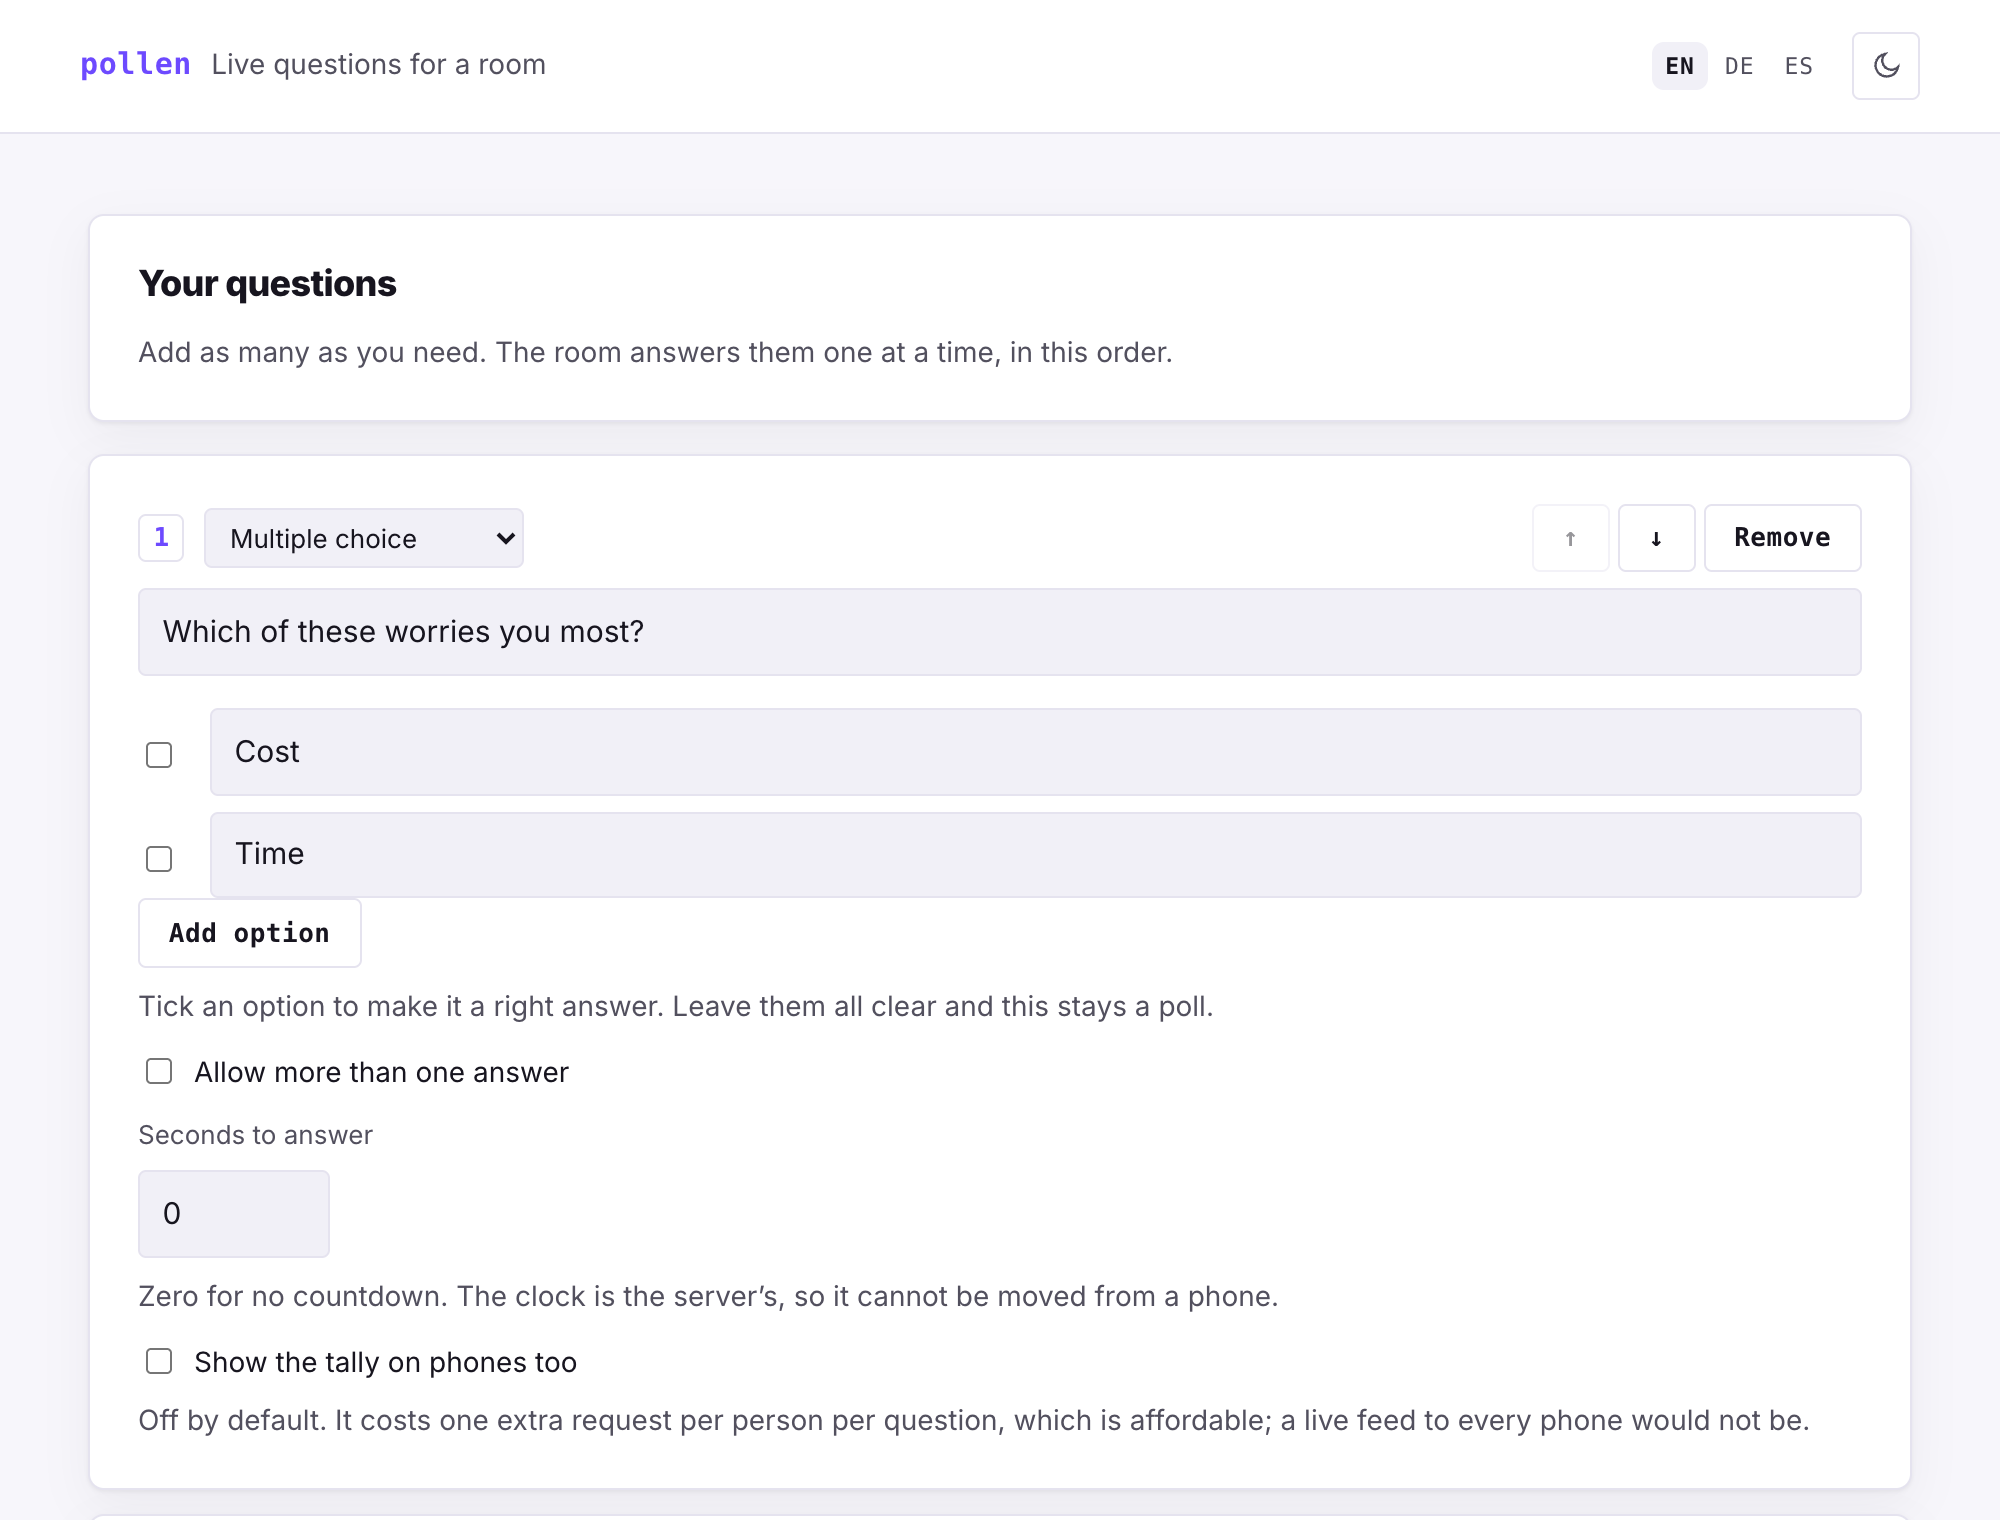
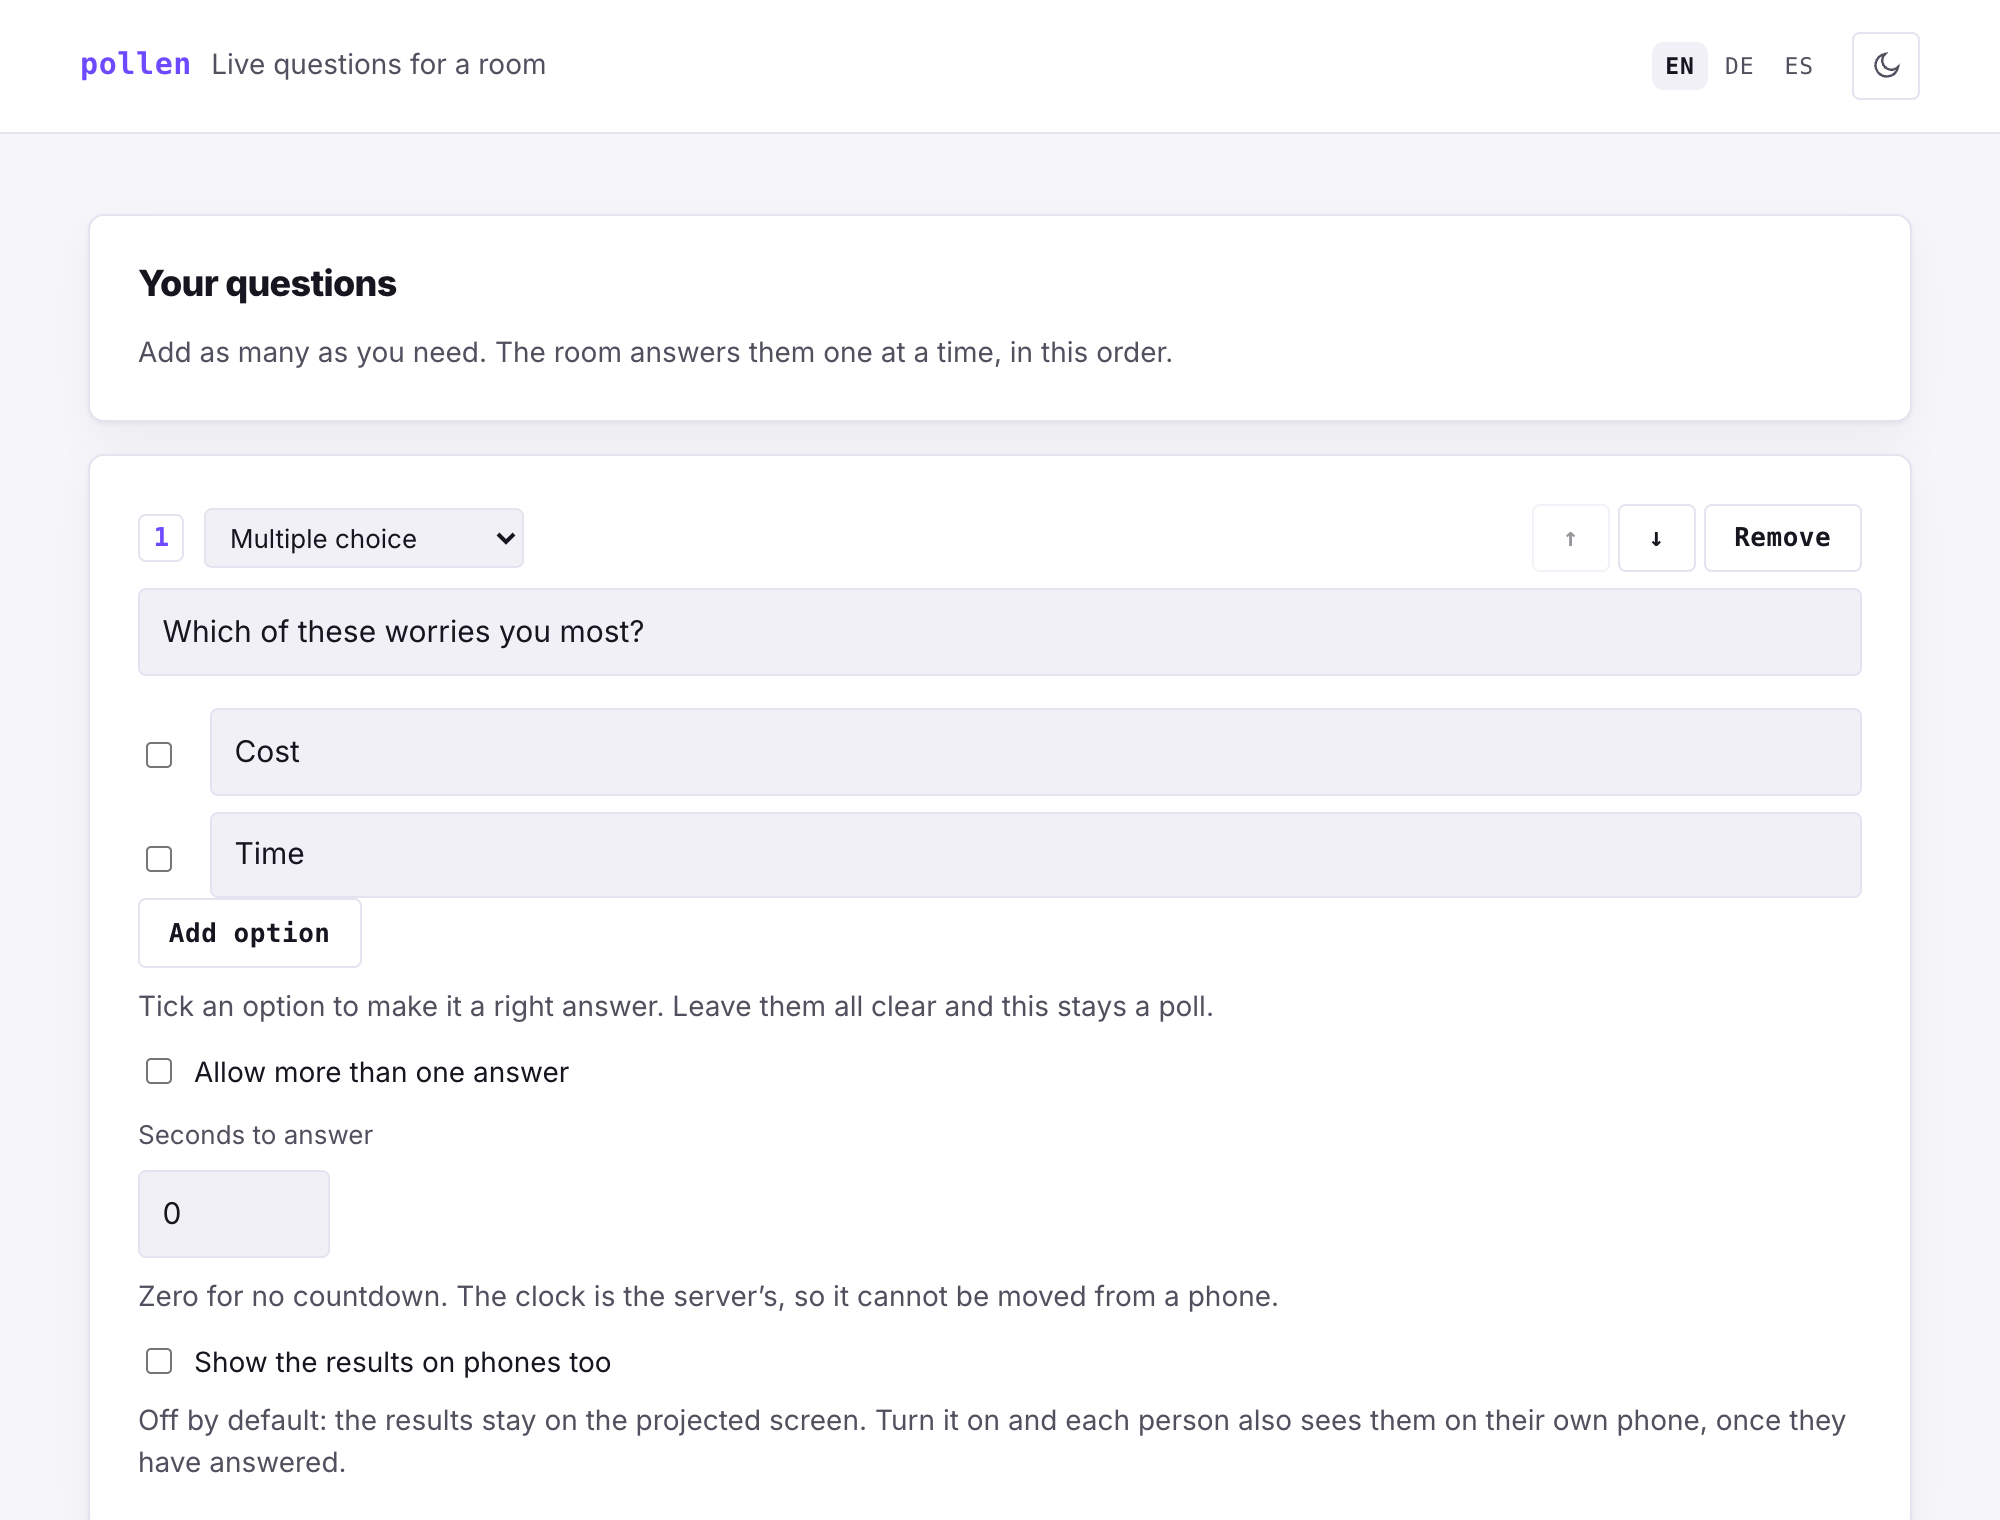
Make one setting say what it does, and finish the storage documentation
"Show the tally on phones too / Off by default. It costs one extra request per
person per question, which is affordable; a live feed to every phone would not
be." That is implementation economics in a control a presenter reads while
building a question, and it explains nothing about what happens in their room.
It now says the results stay on the projected screen unless this is on, and
that each person then sees them on their own phone once they have answered.
"Results" rather than "tally", too. The arithmetic moved to the README, where
it belongs and where it was already half-written.

Also lands the two CLAUDE.md sections the previous commit lost to a bad anchor:
why there is no database and what to say when asked, and a "worth building
next" list with the webhook at the top of it.

Claude-Session: https://claude.ai/code/session_01UERxPD9vFHkP5qsyEWphv5

Changed region(s): [[0.062, 0.9586, 0.93, 1.0], [0.186, 0.8967, 0.93, 0.9586]]

diff --git a/public/js/locales.js b/public/js/locales.js
@@ -38,8 +38,8 @@ export const STRINGS = {
     'editor.addQa': 'Audience questions',
     'editor.addRank': 'Ranking',
     'editor.rankHint': 'The room drags these into an order. You see the average position each one was put in.',
-    'editor.showResults': 'Show the tally on phones too',
-    'editor.showResultsHint': 'Off by default. It costs one extra request per person per question, which is affordable; a live feed to every phone would not be.',
+    'editor.showResults': 'Show the results on phones too',
+    'editor.showResultsHint': 'Off by default: the results stay on the projected screen. Turn it on and each person also sees them on their own phone, once they have answered.',
     'editor.qaHint': 'The room writes the questions and supports each other’s. You answer the ones that rise to the top.',
     'editor.correctHint': 'Tick an option to make it a right answer. Leave them all clear and this stays a poll.',
     'editor.seconds': 'Seconds to answer',
@@ -207,8 +207,8 @@ export const STRINGS = {
     'editor.addQa': 'Publikumsfragen',
     'editor.addRank': 'Reihenfolge',
     'editor.rankHint': 'Der Raum bringt diese in eine Reihenfolge. Sie sehen die durchschnittliche Position jeder Option.',
-    'editor.showResults': 'Auswertung auch auf den Telefonen zeigen',
-    'editor.showResultsHint': 'Standardmäßig aus. Es kostet eine zusätzliche Anfrage pro Person und Frage, was tragbar ist; ein Live-Feed an jedes Telefon wäre es nicht.',
+    'editor.showResults': 'Ergebnisse auch auf den Telefonen zeigen',
+    'editor.showResultsHint': 'Standardmäßig aus: die Ergebnisse bleiben auf der projizierten Ansicht. Eingeschaltet sieht sie jede Person auch auf dem eigenen Telefon, sobald sie geantwortet hat.',
     'editor.qaHint': 'Der Raum schreibt die Fragen und unterstützt die der anderen. Sie beantworten die, die nach oben kommen.',
     'editor.correctHint': 'Eine Option ankreuzen macht sie zur richtigen Antwort. Bleibt alles leer, ist es eine Umfrage.',
     'editor.seconds': 'Sekunden zum Antworten',
@@ -376,8 +376,8 @@ export const STRINGS = {
     'editor.addQa': 'Preguntas del público',
     'editor.addRank': 'Ordenar',
     'editor.rankHint': 'La sala pone esto en orden. Usted ve la posición media en que quedó cada opción.',
-    'editor.showResults': 'Mostrar el recuento también en los móviles',
-    'editor.showResultsHint': 'Desactivado por defecto. Cuesta una petición más por persona y pregunta, que es asumible; un flujo en vivo a cada móvil no lo sería.',
+    'editor.showResults': 'Mostrar los resultados también en los móviles',
+    'editor.showResultsHint': 'Desactivado por defecto: los resultados se quedan en la pantalla proyectada. Si lo activa, cada persona los ve también en su móvil, una vez que ha respondido.',
     'editor.qaHint': 'La sala escribe las preguntas y apoya las de los demás. Usted responde las que suben.',
     'editor.correctHint': 'Marque una opción para convertirla en respuesta correcta. Si no marca ninguna, sigue siendo una votación.',
     'editor.seconds': 'Segundos para responder',

diff --git a/CLAUDE.md b/CLAUDE.md
@@ -122,6 +122,26 @@ production host still produced only "no connection". `tests/ui.mjs` also records
 request and every WebSocket of a full session and asserts none left the origin, which is
 confirmatory rather than primary, and its comment says so.
 
+## Why there is no database, and what to say when asked
+
+The Durable Object is the storage AND the single point every vote passes through, which is
+what makes counting correct without locks and gives the room's WebSockets a home.
+Cloudflare's framing: Durable Objects coordinate between clients and give strongly
+consistent storage attached to the same object. A database gives the second half only.
+
+The README carries the long answer under "If you want it to store things somewhere else".
+The short one, so it is not re-derived:
+
+- **D1 instead of the object** replaces storage and leaves coordination and the sockets
+  homeless, so you need a Durable Object anyway and end up with two stores that must agree.
+  Do not.
+- **Keeping results past the room** is what the question usually means, and it needs a
+  webhook, not a database: post the export to a URL the presenter owns, from `Room.alarm()`
+  and from the close action. Roughly thirty lines, one new binding, nothing else changes.
+  It is the one storage variant worth building and it is not built.
+- **Off Cloudflare** is a port, not a setting: `shared/`, `public/` and the tests carry
+  over, `worker/src/` is rewritten.
+
 ## Two Wrangler configs, and why
 
 `wrangler.toml` is this deployment: it carries the custom domain route and `workers_dev =
@@ -210,6 +230,17 @@ GitHub About block set with description, homepage and six topics; and one full-h
 sweep whose six hits were all read and all benign (the AGPL's own wording about passwords, a
 README sentence saying the room code is not a secret, and the `wrangler.toml` comment
 stating this Worker is never on the workers.dev namespace).
+
+### Worth building next
+
+- **A webhook for the results**, posted to a URL the presenter owns when the session ends
+  or the room expires. It is the answer to "can I connect it to my own database", it needs
+  no database, and it adds one binding, which `tests/selfhost.test.mjs` will flag: the
+  self-host instructions have to gain a step the same day.
+- A full cloud drops its least common words. They are in the download and the screen says
+  how many, but the presenter cannot see them at all.
+- The scoreboard has no speed bonus. Doing it honestly means timing arrival at the object,
+  never trusting a time a phone reports.
 
 ### One thing that is not this repo's to fix
 

diff --git a/README.md b/README.md
@@ -73,9 +73,11 @@ at 3.9.](docs/presenter-scale.png)
 The presenter moves the room from one question to the next, can stop and reopen answers,
 clear a question, download the results as JSON, or end the session and delete everything.
 
-Results stay on the projector by default. A question can be set to show its tally on the
-phones as well; that costs one extra request per person per question, which is affordable,
-and the setting says so where it is switched on.
+Results stay on the projector by default. A question can be set to show them on the phones
+as well, and then each person sees the results on their own device once they have answered.
+It costs one extra request per person per question, which is linear and affordable where a
+live feed to every phone would not be; that arithmetic lives here rather than in the
+setting, which now says what happens in the room instead of what it costs to run.
 
 Results download as JSON or as CSV.
 

diff --git a/CHANGELOG.md b/CHANGELOG.md
@@ -153,6 +153,15 @@ All notable changes to this project are documented here. The format follows
 
 ### Fixed
 
+- The setting that shows results on phones explained its own billing model
+  instead of what it does: "it costs one extra request per person per question"
+  tells a presenter nothing about their room. It now says the results stay on
+  the projected screen unless you turn it on, and that each person then sees
+  them on their own phone once they have answered. It also says "results"
+  rather than "tally". The cost arithmetic moved to the README, where it is
+  useful.
+
+
 - The creation limit charged for attempts that never opened a room, so a run of
   false starts could lock someone out having successfully created nothing. It is
   now charged only on success, the ceiling is thirty an hour rather than ten, and
